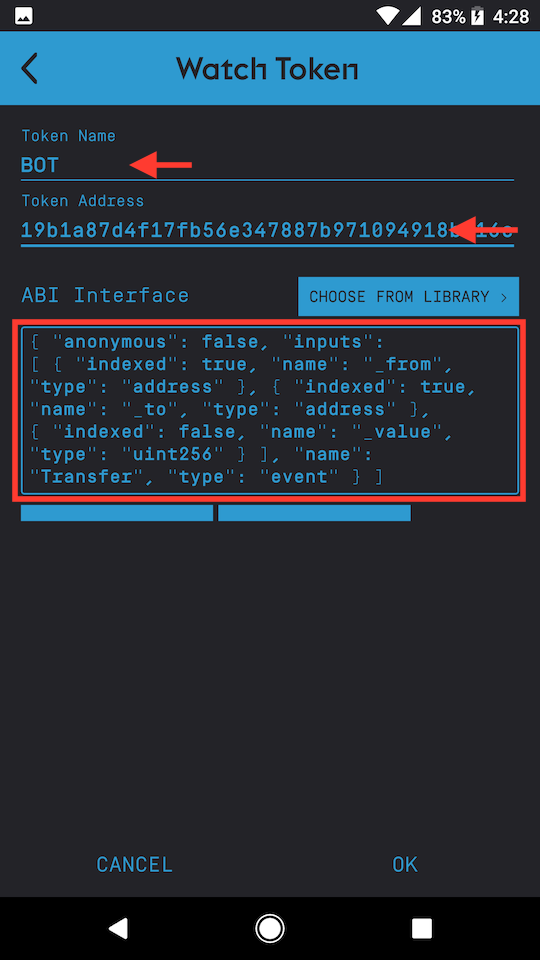
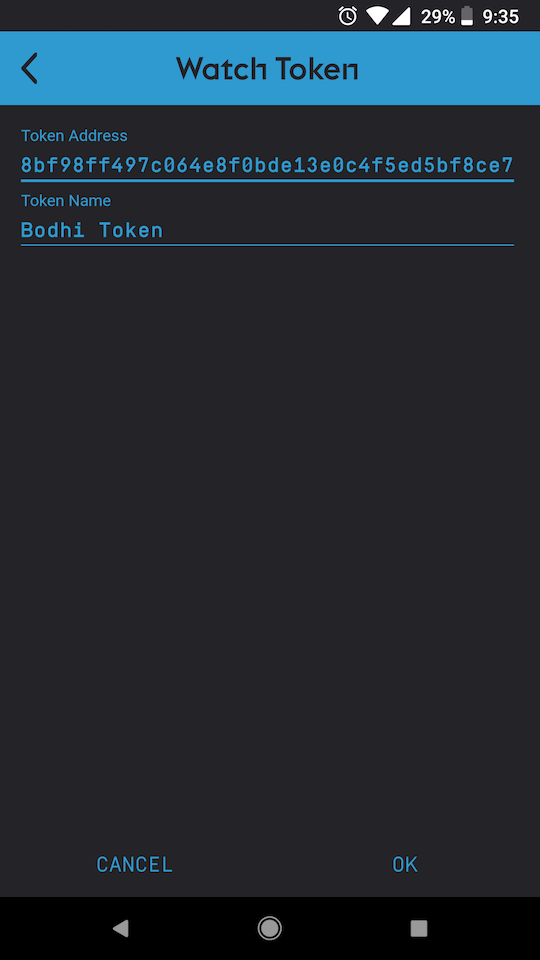
Update qt mobile pic for watch token

diff --git a/docs/bodhi_token/qtum_wallet_mobile.md b/docs/bodhi_token/qtum_wallet_mobile.md
@@ -17,12 +17,12 @@
 
 	![](../img/qt_mobile_watch_3.png)
 
-5. Add `Token Name`: BOT
-6. Copy/paste the `Token Address` (see [Deployed Contracts](info.md#deployed-contracts) Mainnet address above)
-7. Copy/paste the `ABI Interface` (see [Interface (ABI)](info.md#interface-abi) above)
-8. Click `OK` button
+5. Copy/paste the `Token Address` (see [Deployed Contracts](info.md#deployed-contracts) Mainnet address above)
 
 	![](../img/qt_mobile_watch_4.png)
+
+6. The `Token Name` should autofill by itself
+7. Click `OK` button
 
 # Send BOT
 1. Download the mobile app and launch it
